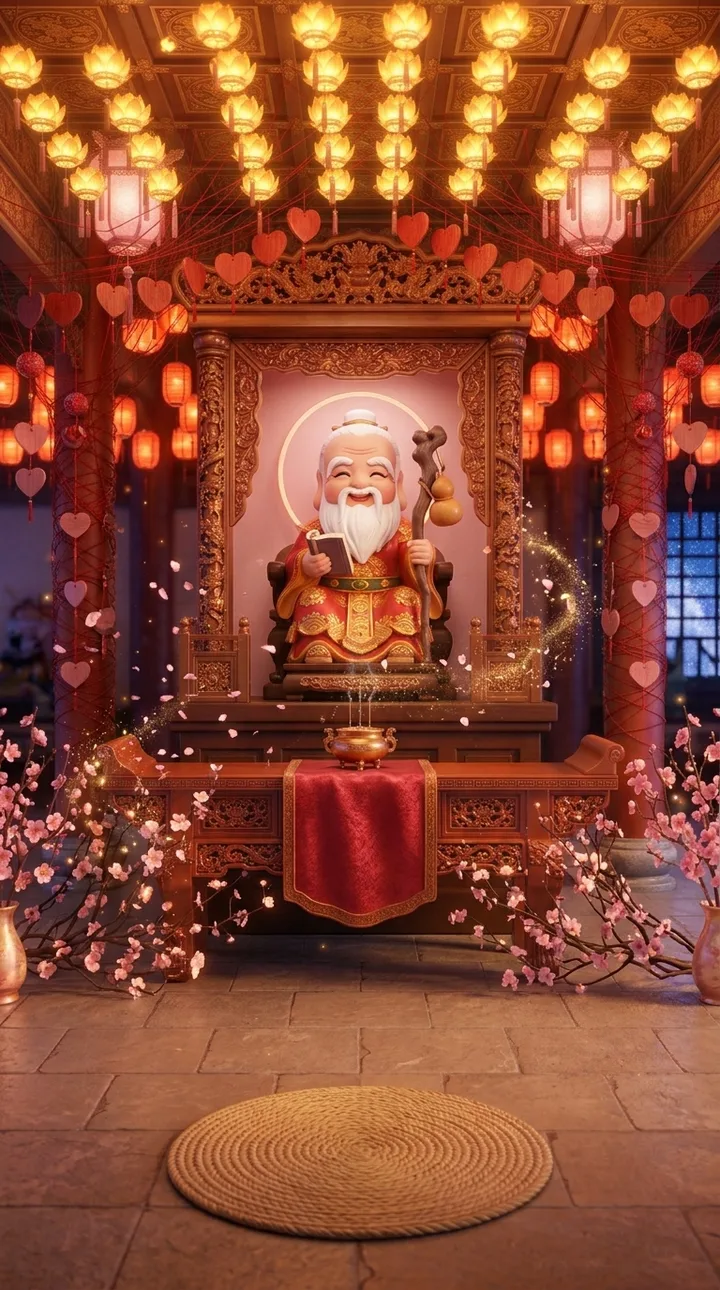
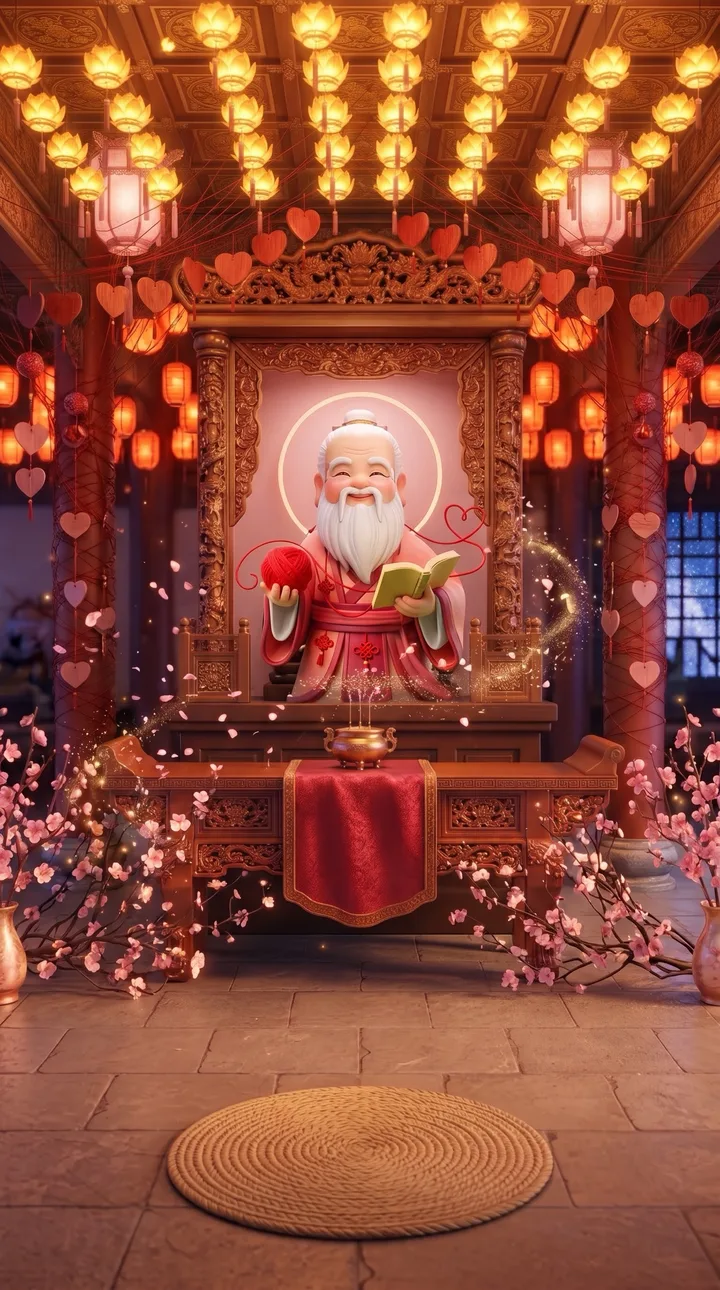
換上新神像的月老、土地公、註生娘娘殿背景
Claude-Session: https://claude.ai/code/session_019aNbR4BWkQjAy7VqP7JWCw

diff --git a/src/main.js b/src/main.js
@@ -140,7 +140,7 @@ $('#sceneHost').innerHTML = SCENE_SVG(hallImg());
 $('#lunar').addEventListener('click', () => {
   festive = !festive;
   $('#hallBg').setAttribute('href', hallImg());
-  const FEST_SAY = { yue: '這是七夕的月老閣：滿天蓮花燈、桃花瓣飄下來。', tudi: '這是二月初二頭牙的福德祠：榕樹上掛滿紅燈籠和銅錢串。', wen: '這是文昌帝君聖誕和考季的文昌閣：紅燈籠和許願木牌掛滿書架。', ji: '這是濟公聖誕的濟公堂：橘色燈籠一串一串，紅葫蘆掛在柱子上。', san: '這是九月初九三太子聖誕：紅燈籠、彩色氣球，供桌鋪上紅桌巾。', gy: '這是觀音菩薩紀念日的觀音殿：蓮花燈一盞一盞飄在空中。', gg: '這是六月廿四關聖帝君聖誕：紅燈籠掛滿大殿，供桌鋪上龍紋紅桌巾。', zs: '這是三月二十註生娘娘聖誕：花環和燈籠掛滿殿裡，花瓣飄下來。', ts: '這是正月安太歲季的太歲殿：紅燈籠一串一串掛起來。' };
+  const FEST_SAY = { yue: '這是七夕的月老閣：滿天燈籠和愛心，桃花瓣飄下來。', tudi: '這是二月初二頭牙的福德祠：榕樹上掛滿紅燈籠和銅錢串。', wen: '這是文昌帝君聖誕和考季的文昌閣：紅燈籠和許願木牌掛滿書架。', ji: '這是濟公聖誕的濟公堂：橘色燈籠一串一串，紅葫蘆掛在柱子上。', san: '這是九月初九三太子聖誕：紅燈籠、彩色氣球，供桌鋪上紅桌巾。', gy: '這是觀音菩薩紀念日的觀音殿：蓮花燈一盞一盞飄在空中。', gg: '這是六月廿四關聖帝君聖誕：紅燈籠掛滿大殿，供桌鋪上龍紋紅桌巾。', zs: '這是三月二十註生娘娘聖誕：花環和燈籠掛滿殿裡，花瓣飄下來。', ts: '這是正月安太歲季的太歲殿：紅燈籠一串一串掛起來。' };
   say(festive ? `${FEST_SAY[hall] || '這是過年過節的廟：紅燈籠全掛上了。'}再點一次農曆換回平日。` : '換回平日的廟。');
 });
 initFx($('#fx'));
